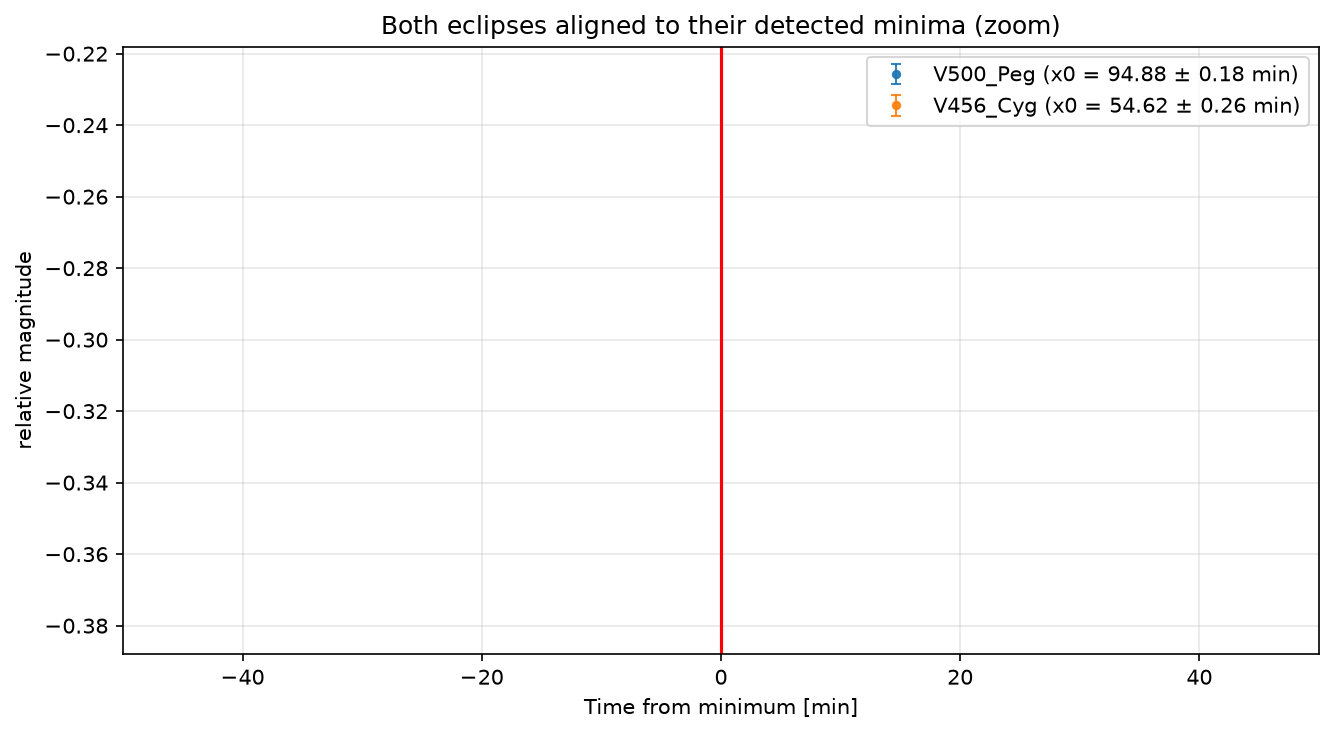
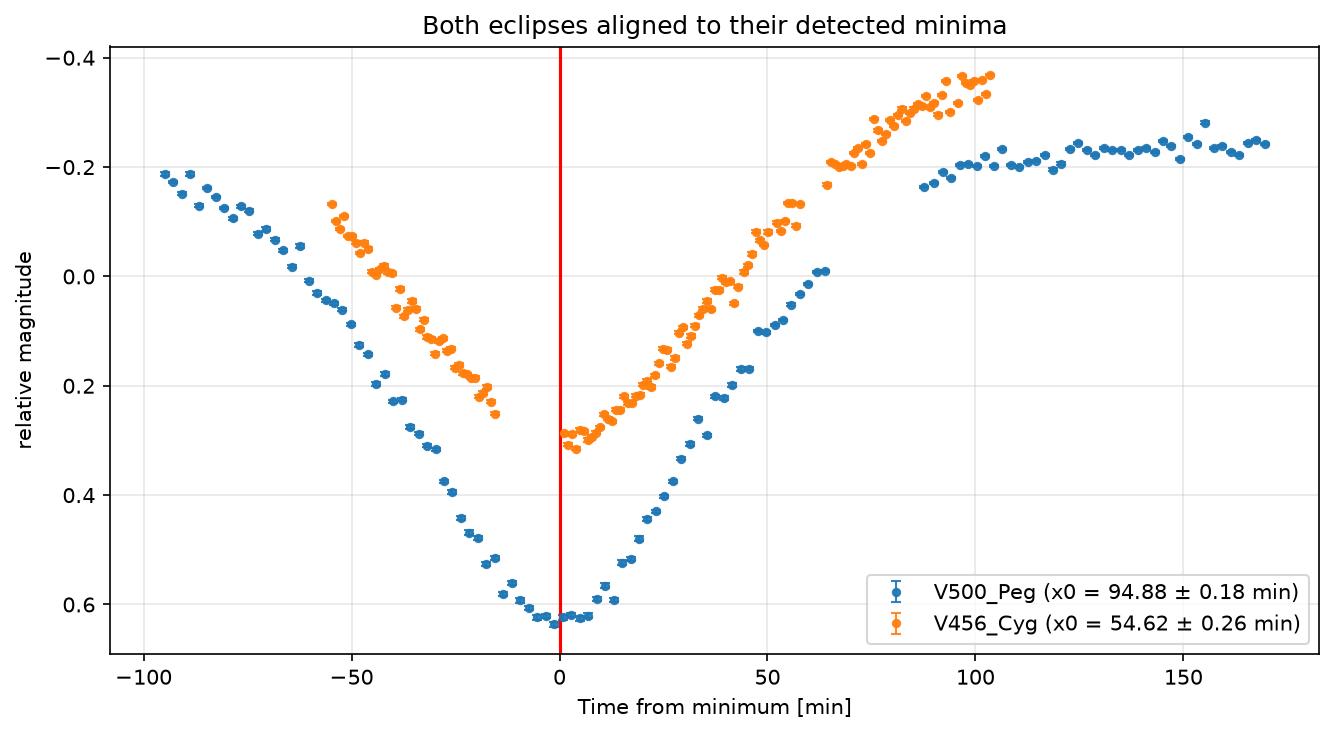
Comparison plot: drop zoom, plot the reported data as-is
MAG_ERR may be reported incorrectly by the observing software — until the
report is fixed, plot the data exactly as provided (full range, inverted
magnitude axis, raw MAG_ERR error bars).

diff --git a/examples/plot_aavso.py b/examples/plot_aavso.py
@@ -149,12 +149,10 @@ def comparison_figure(results: list[tuple[str, float, float]], out_png: Path) ->
     """Overlay both light curves, minima aligned at zero, as scatter with
     magnitude errors (yerr = MAG_ERR directly).
 
-    The magnitude axis is inverted (brighter = up) and both axes are zoomed
-    onto the minimum region so that the photometric errors — only ~0.003 mag
-    against a ~0.9 mag eclipse depth — remain visible.
+    The magnitude axis is inverted (brighter = up). The data is plotted
+    exactly as reported by the observer — no zoom or other adjustment.
     """
     fig, ax = plt.subplots(figsize=(9, 5))
-    deepest = None
     for path, (name, x0, x0_std) in zip(STARS, results):
         x, y, w, t0, _, mag_err = load_aavso(path)
         color = "C0" if "V500" in str(path) else "C1"
@@ -167,16 +165,11 @@ def comparison_figure(results: list[tuple[str, float, float]], out_png: Path) ->
             color=color, ecolor=color, elinewidth=1.0, capsize=2.5,
             label=f"{name} (x0 = {x0:.2f} ± {x0_std:.2f} min)",
         )
-        deepest = mag_rel.min() if deepest is None else min(deepest, mag_rel.min())
-
     ax.axvline(0, color="red", linewidth=1.5)
     ax.set_xlabel("Time from minimum [min]")
     ax.set_ylabel("relative magnitude")
-    ax.set_title("Both eclipses aligned to their detected minima (zoom)")
+    ax.set_title("Both eclipses aligned to their detected minima")
     ax.invert_yaxis()  # brighter (smaller magnitude) at the top
-    # Zoom into the dip so the small photometric errors are visible
-    ax.set_xlim(-50, 50)
-    ax.set_ylim(deepest - 0.02, deepest + 0.15)
     ax.legend(framealpha=0.8)
     ax.grid(True, alpha=0.3)
     fig.tight_layout()
